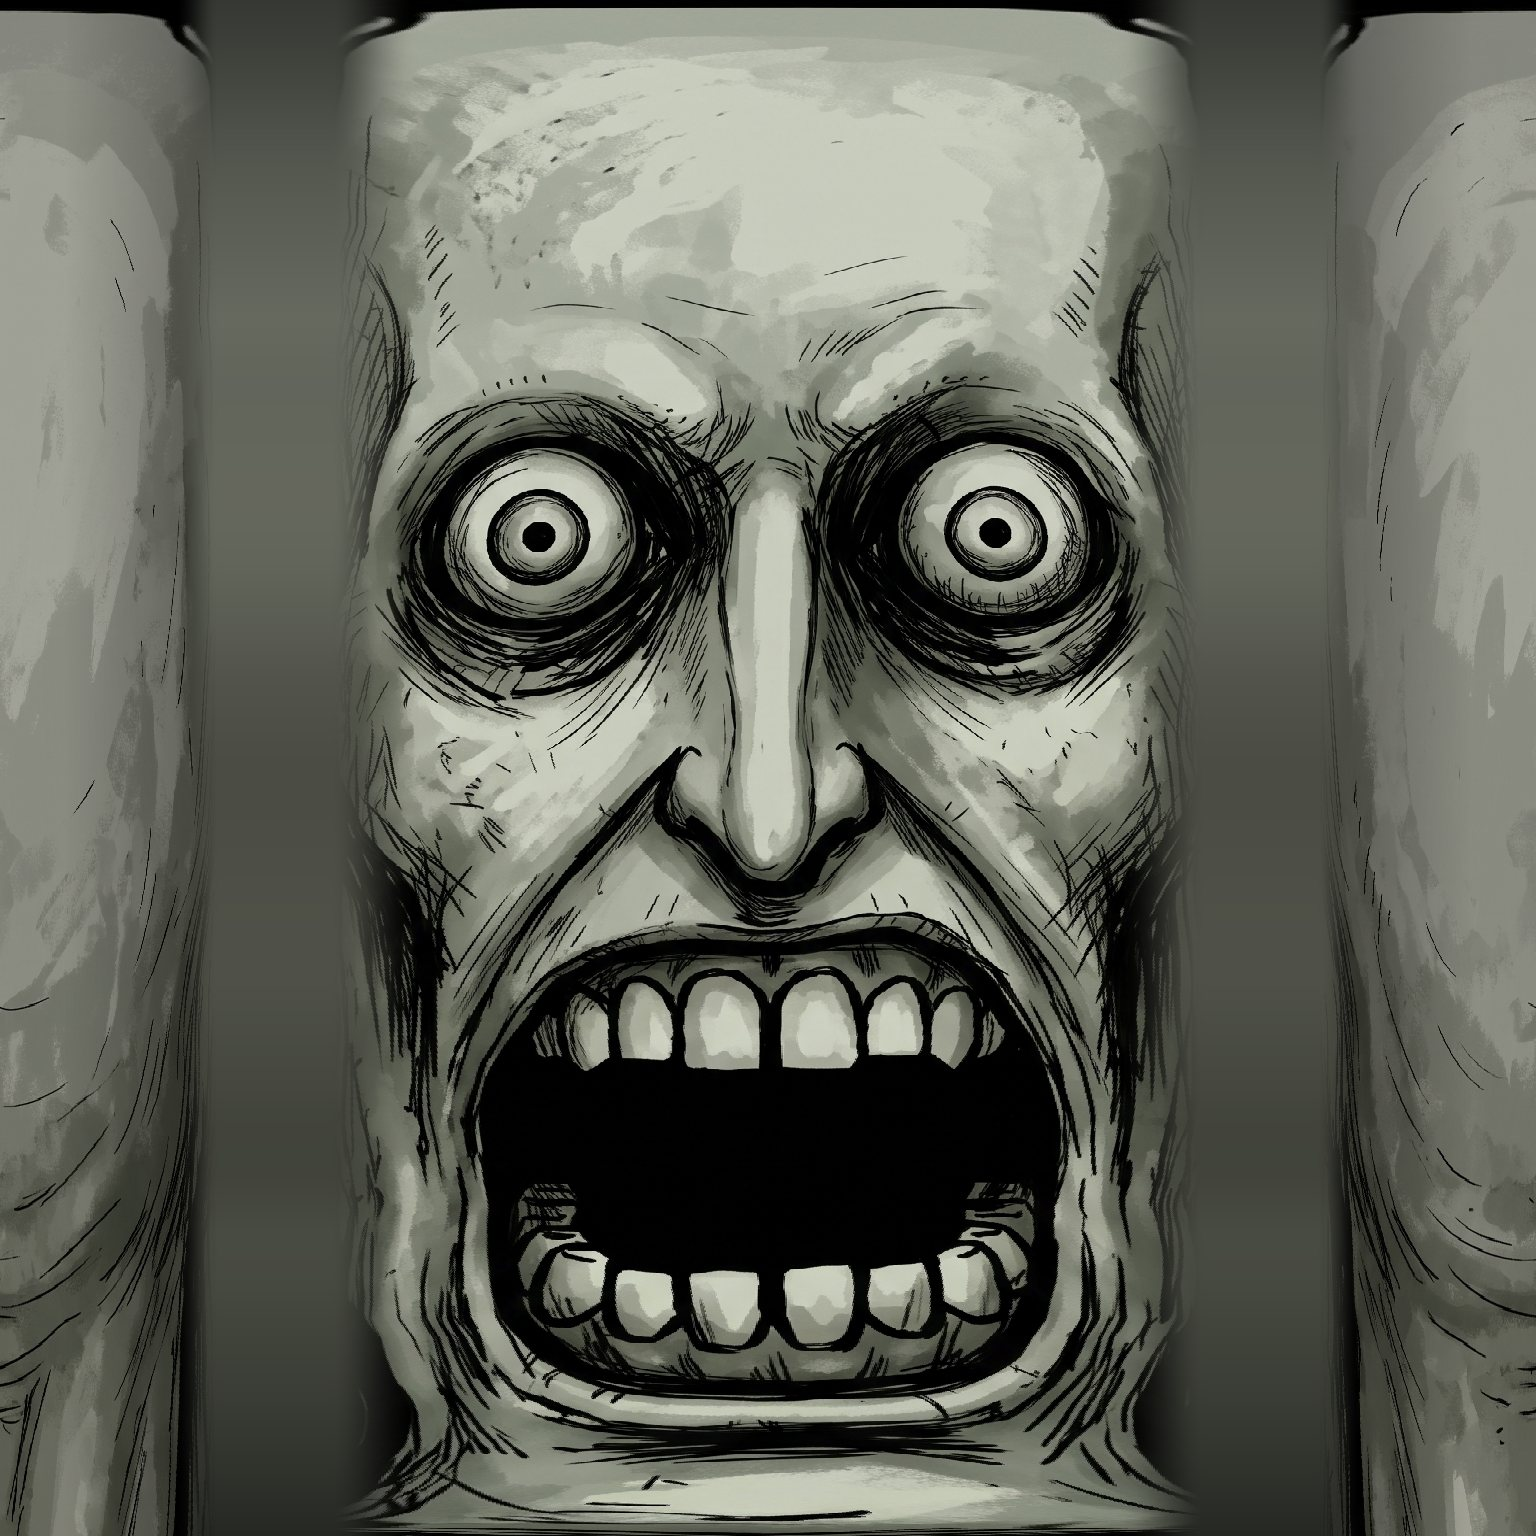
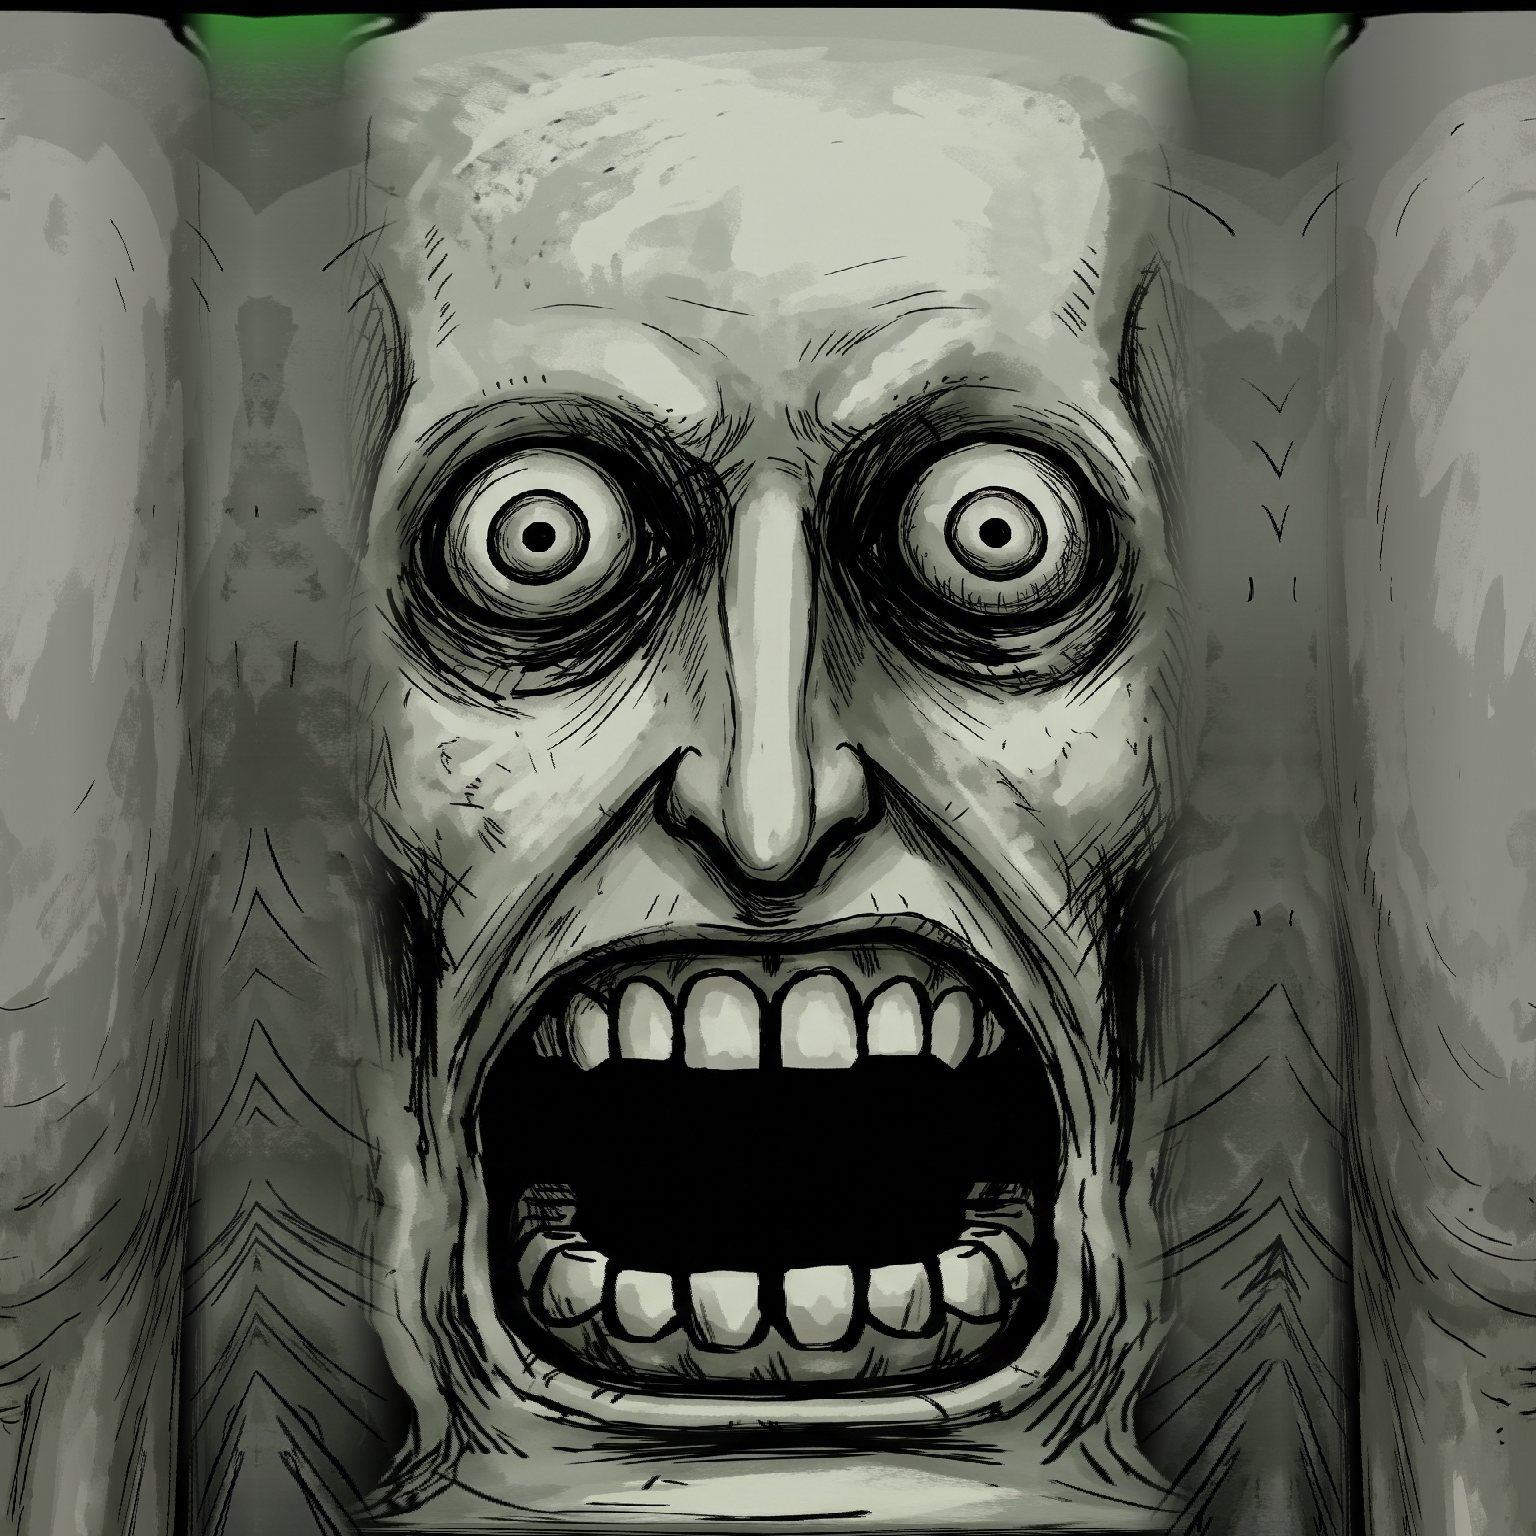
Gazer side grain, portrait from the new head, art existence test, old tiles removed
Claude-Session: https://claude.ai/code/session_01Hp3PPRWzBxDPqMYTGtr5h7

diff --git a/tests/horrorCreature.test.js b/tests/horrorCreature.test.js
@@ -1,3 +1,4 @@
+import { existsSync } from 'node:fs';
 import { describe, it, expect, vi } from 'vitest';
 import * as THREE from 'three';
 import { CreatureModel, createCreature, lookYaw } from '../src/horror/creatureModel.js';
@@ -217,6 +218,13 @@ describe('createCreature', () => {
     expect(() => stand(model, 'some-new-mode', 5)).not.toThrow();
   });
 
+  it.each(['gazer', 'maw', 'ward'])('%s only asks for pictures that exist', (id) => {
+    const urls = [];
+    createCreature(id, new THREE.Scene(), { load: (url) => { urls.push(url); return new THREE.Texture(); } });
+    expect(urls.length).toBeGreaterThan(0);
+    for (const url of urls) expect(existsSync(`public/${url}`), url).toBe(true);
+  });
+
   it.each(['gazer', 'maw', 'ward'])('%s stays visible when its pictures fail and does not block the warm-up', (id) => {
     const fails = [];
     const failing = { load: (url, ok, prog, err) => { fails.push(err); return new THREE.Texture(); } };
@@ -275,6 +283,20 @@ describe('createCreature', () => {
     expect(chase.root.rotation.x).toBeGreaterThan(patrol.root.rotation.x);
     expect(stand(build('gazer'), 'stunned', 90).glow).toBeLessThan(patrol.glow * 0.5);
     rest.mockRestore();
+  });
+
+  it('gazer opens the painted mouth without moving the skull or the mouth corners', () => {
+    const model = build('gazer');
+    const g = model.face.geometry;
+    const pos = g.attributes.position;
+    const move = g.morphAttributes.position[0];
+    expect(g.morphTargetsRelative).toBe(true);
+    let drop = 0;
+    for (let i = 0; i < pos.count; i++) {
+      drop = Math.max(drop, -move.getY(i));
+      if (pos.getY(i) > 0.3) expect(move.getY(i)).toBe(0);
+    }
+    expect(drop).toBeGreaterThan(0.05);
   });
 
   it('gazer puts two ringed eyes on the front of the head', () => {

diff --git a/src/horror/creatureGazer.js b/src/horror/creatureGazer.js
@@ -24,7 +24,7 @@ const HEAD_KEYS = [ // [높이, 반폭, 반두께, 앞뒤 치우침]
 // 목에서 바닥까지 넓어지는 고깔: [높이, 반폭, 반두께]
 const BODY_TOP = 1.75;
 const BODY_KEYS = [
-  [BODY_TOP + 0.02, 0.02], [BODY_TOP, 0.1], [1.62, 0.125], [1.52, 0.17], [1.42, 0.27], [1.3, 0.31], [1.1, 0.34], [0.9, 0.37], [0.7, 0.4], [0.5, 0.43], [0.3, 0.47], [0.12, 0.52], [0, 0.55],
+  [BODY_TOP + 0.02, 0.02], [BODY_TOP, 0.135], [1.62, 0.14], [1.52, 0.18], [1.42, 0.27], [1.3, 0.31], [1.1, 0.34], [0.9, 0.37], [0.7, 0.4], [0.5, 0.43], [0.3, 0.47], [0.12, 0.52], [0, 0.55],
 ].map(([y, hw]) => [y, hw, hw * 0.8, 0]);
 const FRONT_HEAD = 2 / 3; // 그림 폭 가운데 앞면이 차지하는 몫. 양쪽 끝이 뒷면이다
 const FRONT_BODY = 1 / 2;
@@ -153,8 +153,8 @@ export class GazerModel extends CreatureBase {
 
     const shell = shellHead({ keys: HEAD_KEYS, edgeU: mouthLine, edgeL: mouthLine, mouthW: MOUTH.w, relief, uv: headUv, lipShade: 0, rows: 26, segs: 44 });
     const jaw = morphed(shell.jaw, jawMorph(shell.jaw));
-    const face = mergeGeometries([morphed(shell.skull), jaw, morphed(throat(0.12, 0.3, -0.03))]);
-    face.morphTargetsRelative = true; // 합치면 이 표시가 사라진다
+    const face = mergeGeometries([morphed(shell.skull), jaw, morphed(throat(0.12, 0.3, -0.03)), morphed(throat(0.125, 0.17, 0.03))]);
+    face.morphTargetsRelative = true; // 합치면 이 표시가 사라진다. 까만 덩어리 둘은 벌어진 입으로 목이 보이지 않게 막는다
     this.face = this.add(inner, face, skin, true);
 
     const eyes = eyeGeometries();

diff --git a/tools/make_gazer_art.py b/tools/make_gazer_art.py
@@ -2,6 +2,7 @@
 # 사용법: python3 tools/make_gazer_art.py 머리앞.png 머리뒤.png 전신앞.png 전신뒤.png
 # 머리와 몸 모두 가운데가 앞면, 양쪽 끝이 뒷면이다. 앞면은 줄마다 윤곽을 재서 정면 그림 그대로 입히고,
 # 옆구리는 먹선을 지운 살빛으로 이어서 옆에서 봐도 스티커처럼 보이지 않게 한다.
+# 흰자와 고리 눈동자는 따로 떠서 눈동자만 움직이게 하고, 안내 화면 얼굴도 머리 그림에서 다시 만든다.
 # 끝에 머리와 몸의 높이별 반폭을 찍는다 (creatureGazer.js 의 키 표).
 import sys
 import numpy as np
@@ -59,12 +60,14 @@ def wrap(rows_f, rows_b, hw_f, hw_b, rgb_f, rgb_b, cx_f, cx_b, width, front, ins
     s = np.where(is_front, (u - 0.5) / (front / 2), np.sign(u - 0.5) * (1 - (np.abs(u - 0.5) - front / 2) / (0.5 - front / 2))) * SIDE
     fade = np.clip((1 - np.abs(s)) / 0.2, 0, 1)[:, None]
     fade = fade * fade * (3 - 2 * fade)
+    grain = rgb_b.astype(float) - np.asarray(Image.fromarray(rgb_b).filter(ImageFilter.GaussianBlur(30))).astype(float)  # 옆구리에 얹을 잔금
     shadow = np.where(is_front, 1, 0.68 + 0.32 * np.clip((1 - np.abs(s)) / 0.7, 0, 1))[:, None]  # 뒷면은 옆구리로 갈수록 앞면만큼 어두워진다
     for y, (rf, rb) in enumerate(zip(rows_f, rows_b)):
         xf = (cx_f + s * max(hw_f[rf] - inset, 1)).round().astype(int).clip(0, rgb_f.shape[1] - 1)
         xb = (cx_b - s * max(hw_b[rb] - inset, 1)).round().astype(int).clip(0, rgb_b.shape[1] - 1)
         row = np.where(is_front[:, None], rgb_f[rf, xf], rgb_b[rb, xb]).astype(float)
-        out[y] = row * shadow * fade + tone[y] * (1 - fade)
+        side = tone[y] + grain[rb, (cx_b - s * max(hw_b[rb] - inset, 1) * 0.6).round().astype(int).clip(0, rgb_b.shape[1] - 1)]
+        out[y] = row * shadow * fade + side * (1 - fade)
     return out.clip(0, 255).astype('uint8')
 
 
@@ -111,7 +114,6 @@ cx, cy = CX - EYE_DX, EYE_Y
 eye = front[cy - EYE_R:cy + EYE_R, cx - EYE_R:cx + EYE_R].astype(float)
 yy, xx = np.mgrid[-EYE_R:EYE_R, -EYE_R:EYE_R] + 0.5
 r = np.hypot(xx, yy)
-r_in = 82
 # 흰자는 눈동자 없이 새로 칠한다: 그림 속 흰자 빛에 위쪽 눈꺼풀 그늘을 얹는다
 band = eye[(r > 70) & (r < 92)]
 pale = np.percentile(band, 80, axis=0)
@@ -119,6 +121,17 @@ shade = (1 - 0.3 * np.clip((yy + EYE_R * 0.1) / -EYE_R, 0, 1) - 0.4 * np.clip(r 
 Image.fromarray((pale * shade).clip(0, 255).astype('uint8')).resize((256, 256), Image.LANCZOS).save(f'{OUT}/horror_gazer_white.jpg', quality=86)
 iris = front[cy - IRIS_R:cy + IRIS_R, cx - IRIS_R:cx + IRIS_R]
 Image.fromarray(iris).resize((192, 192), Image.LANCZOS).save(f'{OUT}/horror_gazer_iris.jpg', quality=86)
+
+# 안내 화면 얼굴: 다른 괴물과 같은 높이로, 마젠타를 빼고 아래쪽을 어둠에 녹인다
+a = front.astype(float)
+pink = np.minimum(a[..., 0], a[..., 2]) - a[..., 1]
+keep = 1 - np.clip((pink - 40) / 80, 0, 1)
+fade = np.clip((a.shape[0] * 0.97 - np.arange(a.shape[0])) / (a.shape[0] * 0.14), 0, 1)[:, None]
+for c in (0, 2):
+    a[..., c] -= pink.clip(0, 255) * (keep < 1)
+cutout = Image.fromarray(np.dstack([a.clip(0, 255), keep * fade * 255]).astype('uint8'), 'RGBA')
+cutout = cutout.crop(cutout.getbbox())
+cutout.resize((round(cutout.width * 512 / cutout.height), 512), Image.LANCZOS).save(f'{OUT}/horror_face_gazer.webp', quality=82, method=6)
 
 # 몸
 front = load(body_src)
